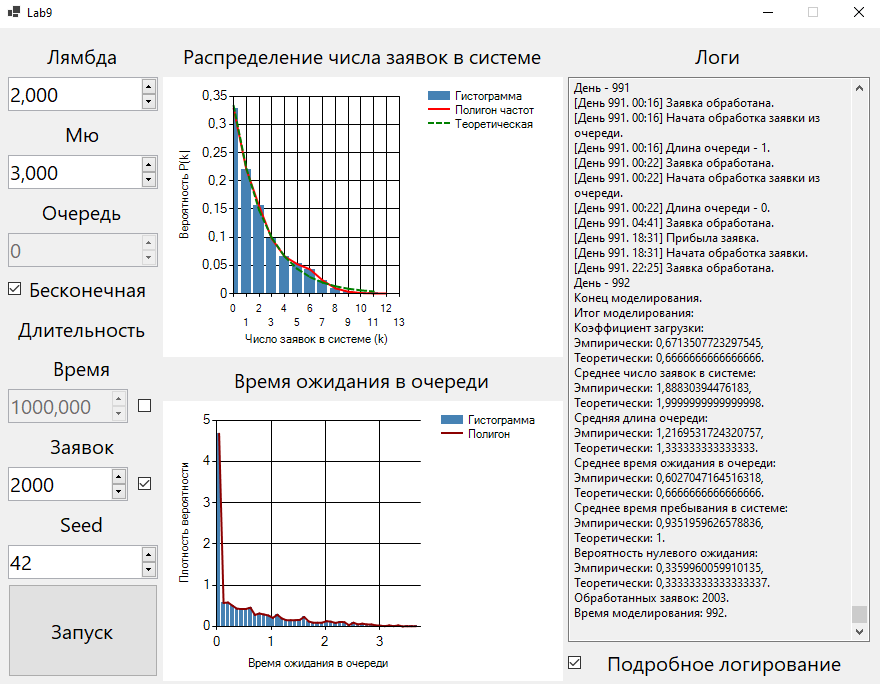
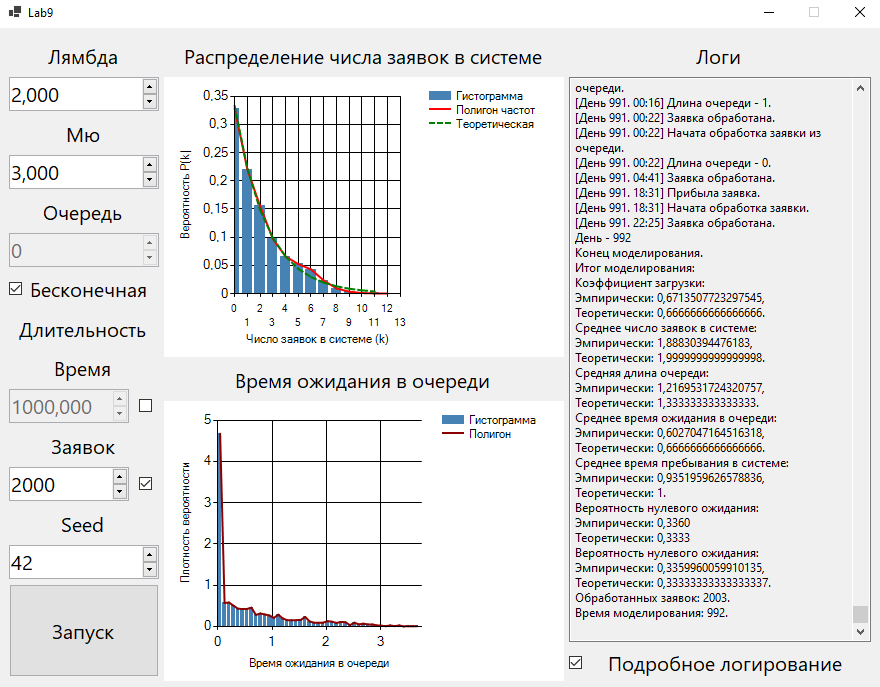
Исправлены недочёты

diff --git a/lab09/Lab9/Form1.cs b/lab09/Lab9/Form1.cs
@@ -472,12 +472,30 @@ namespace Lab9
             textBoxLog.AppendText($"Среднее время пребывания в системе:\r\n");
             textBoxLog.AppendText($"Эмпирически: {avgModelTime},\r\n");
             if (queueInf && rho < 1) textBoxLog.AppendText($"Теоретически: {1 / (mu - lambda)}.\r\n");
-            double probZeroWait = waitTimes.Count(t => t < 1e-9) / (double)waitTimes.Count;
+            double probZeroWaitEmp = 0;
+            if (queueInf)
+            {
+                probZeroWaitEmp = waitTimes.Count(t => t < 1e-9) / (double)waitTimes.Count;
+                textBoxLog.AppendText($"Вероятность нулевого ожидания:\r\n");
+                textBoxLog.AppendText($"Эмпирически: {probZeroWaitEmp:F4}\r\n");
+                if (rho < 1) textBoxLog.AppendText($"Теоретически: {1 - rho:F4}\r\n");
+            }
+            else
+            {
+                int totalArrived = totalClients + (int)denialCounter;
+                probZeroWaitEmp = (double)totalClients / totalArrived;
+            }
             textBoxLog.AppendText($"Вероятность нулевого ожидания:\r\n");
-            textBoxLog.AppendText($"Эмпирически: {probZeroWait},\r\n");
-            if (queueInf && rho < 1) textBoxLog.AppendText($"Теоретически: {1 - (lambda / mu)}.\r\n");
-            else if (!queueInf && rho != 1) textBoxLog.AppendText($"Теоретически: {(1 - rho) / (1 - Math.Pow(rho, N + 1))}.\r\n");
-            else if (!queueInf && rho == 1) textBoxLog.AppendText($"Теоретически: {1 / (N + 1)}.\r\n");
+            textBoxLog.AppendText($"Эмпирически: {probZeroWaitEmp},\r\n");
+            if (queueInf && rho < 1)
+                textBoxLog.AppendText($"Теоретически: {1 - rho}.\r\n");
+            else if (!queueInf)
+            {
+                if (Math.Abs(rho - 1.0) < 1e-9)
+                    textBoxLog.AppendText($"Теоретически: {1.0 / (N + 1)}.\r\n");
+                else
+                    textBoxLog.AppendText($"Теоретически: {(1 - rho) / (1 - Math.Pow(rho, N + 1))}.\r\n");
+            }
             textBoxLog.AppendText($"Обработанных заявок: {clientsHistory.Count()}.\r\n");
             if (!queueInf)
             {
